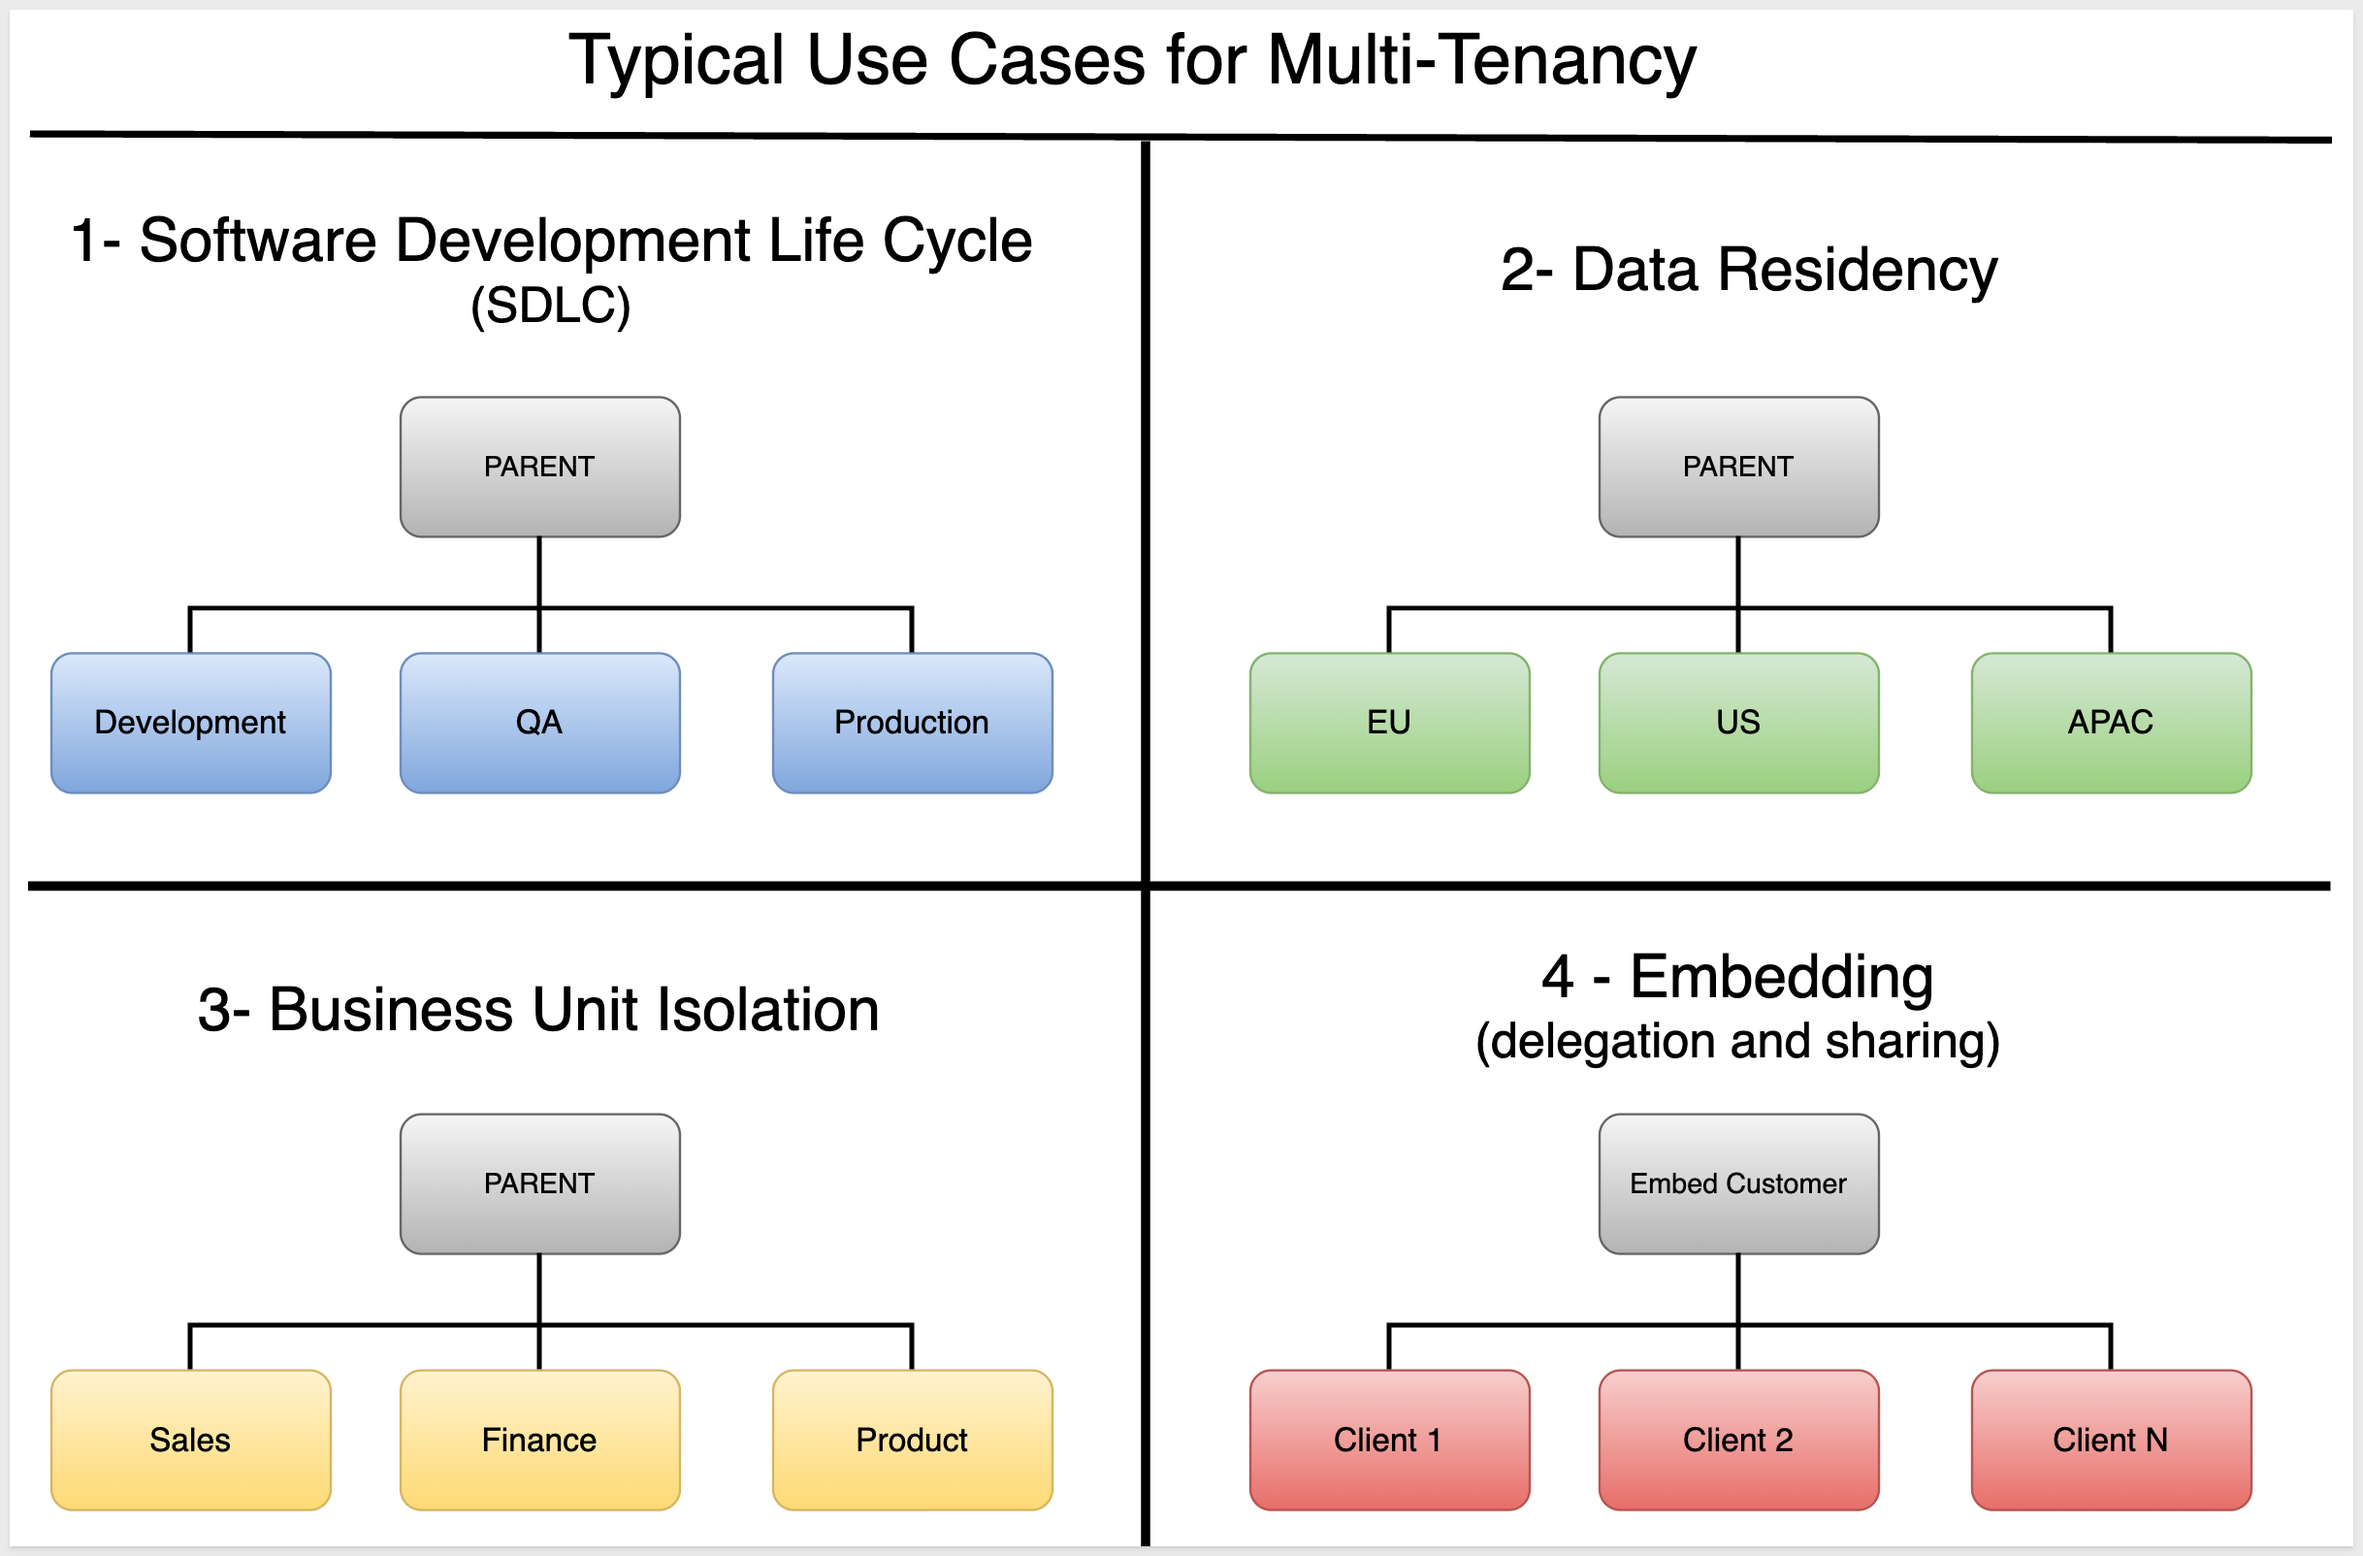
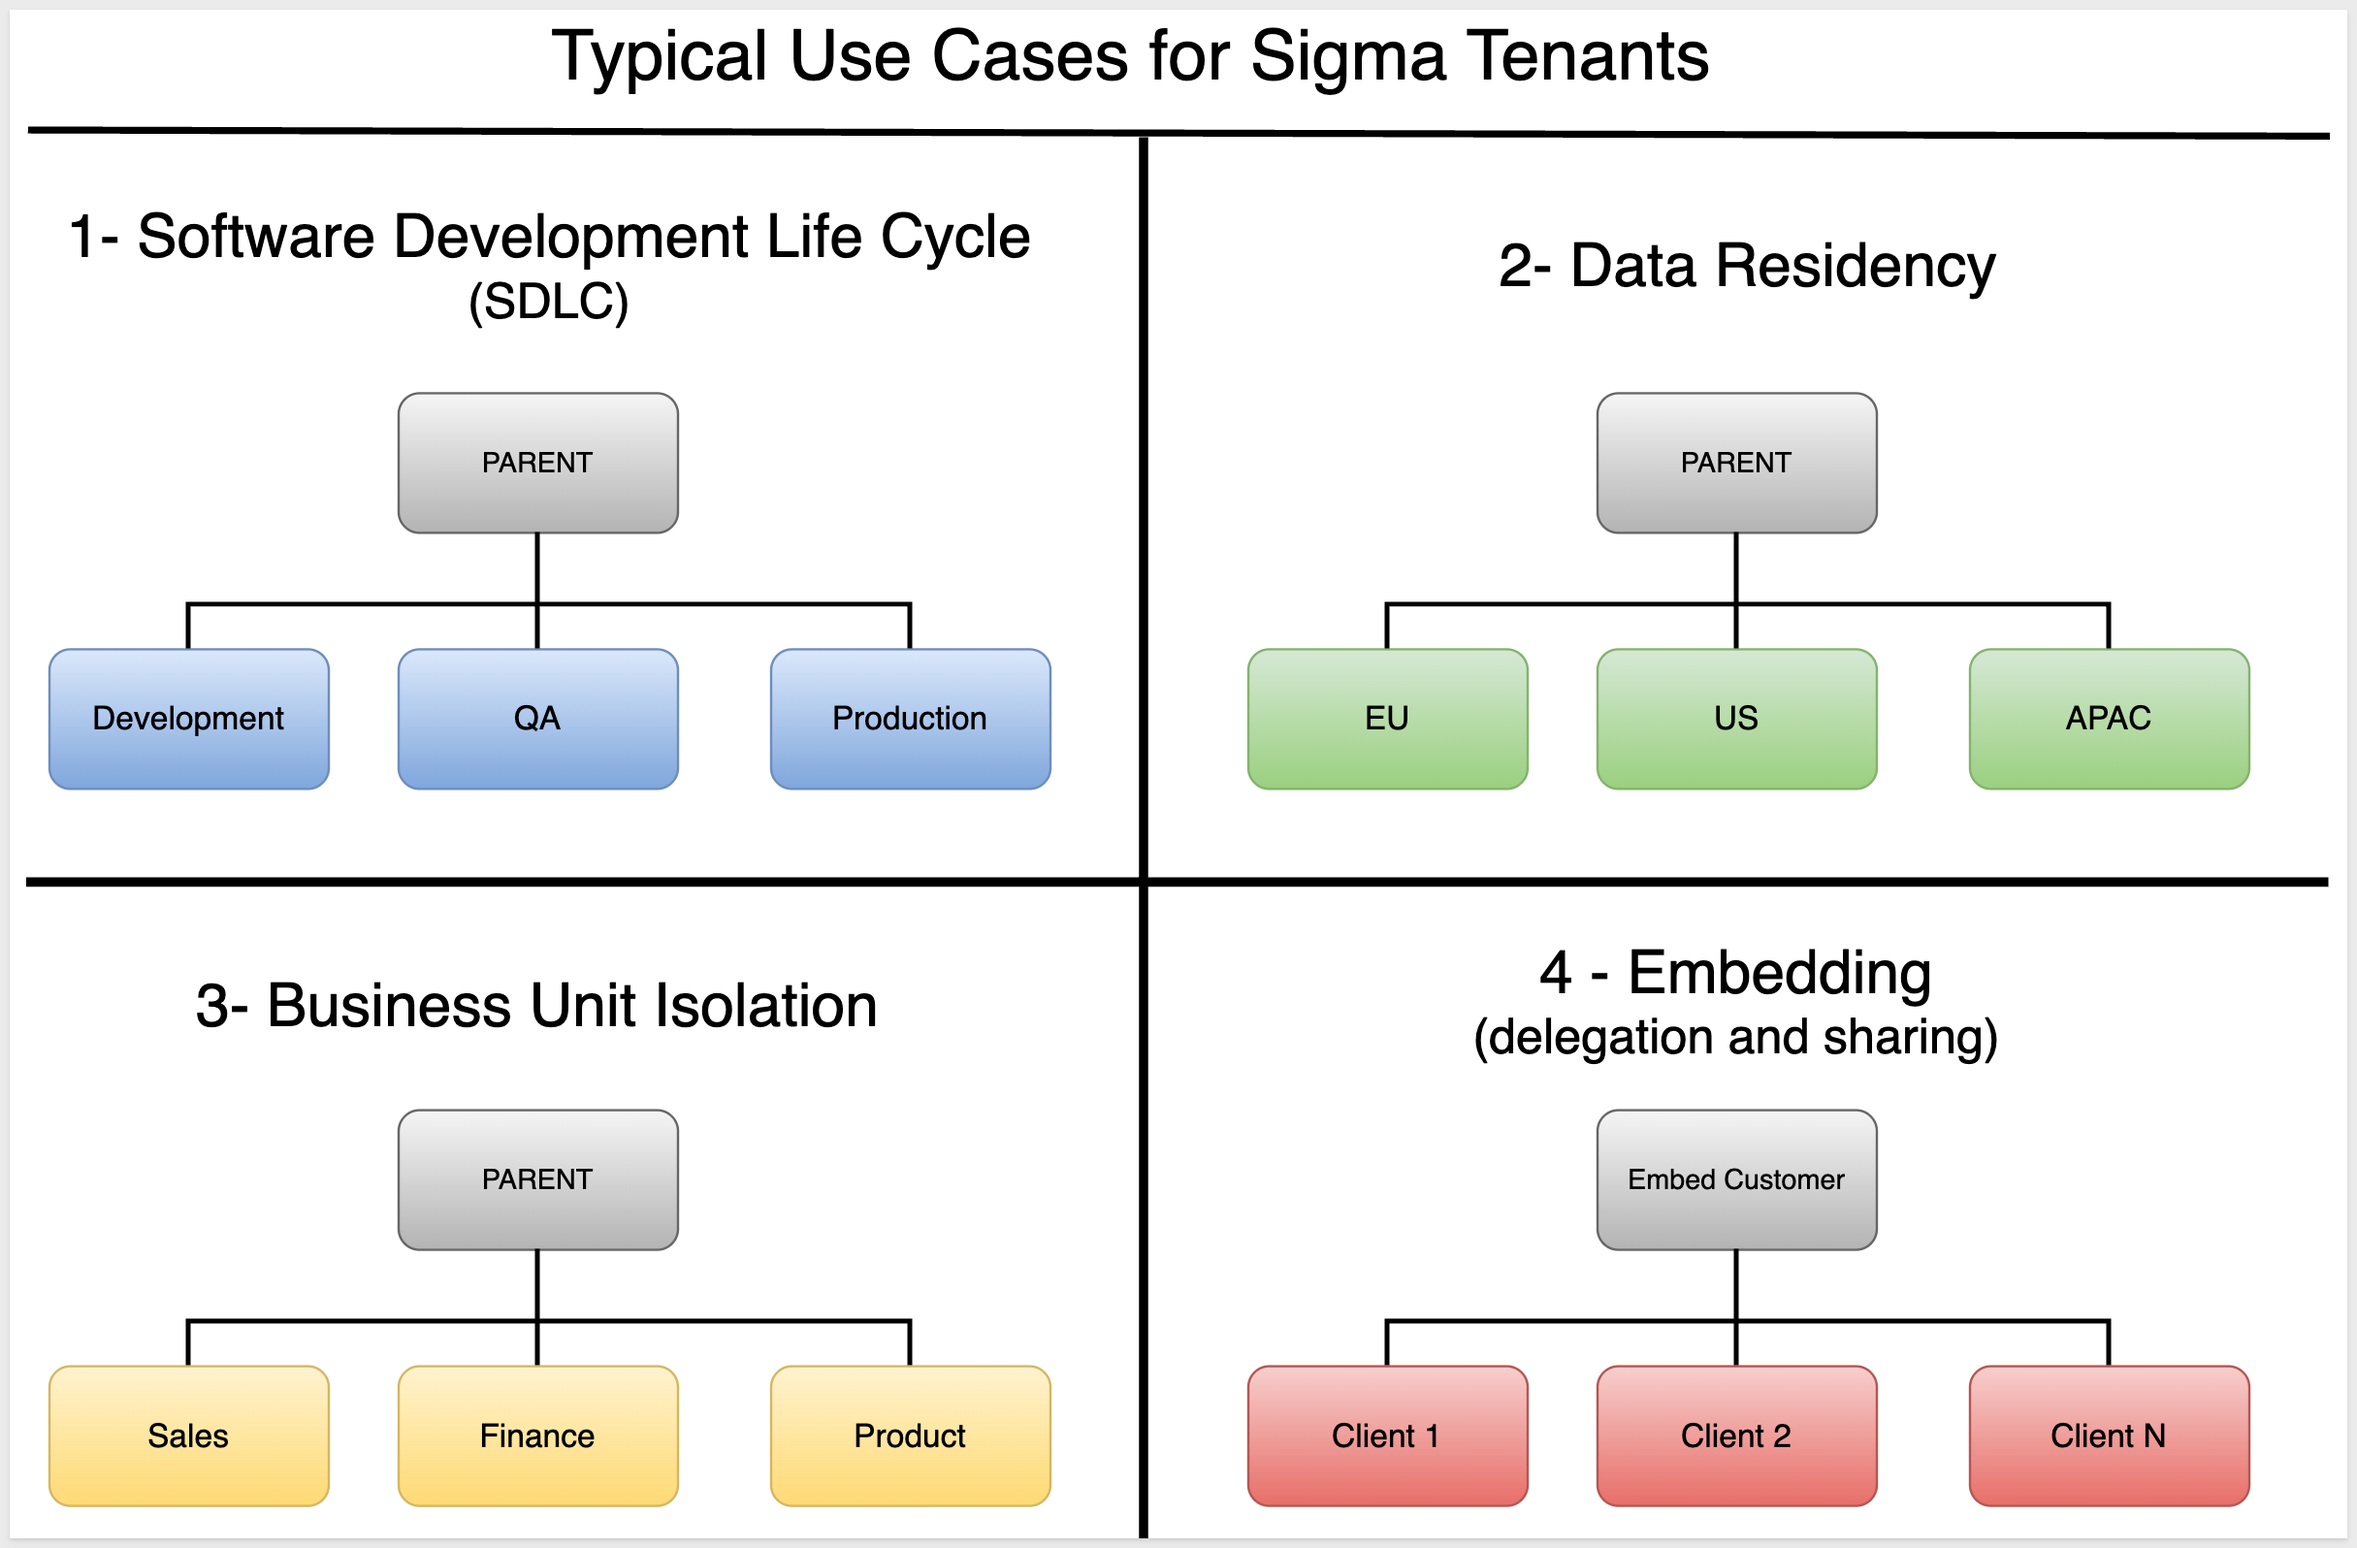
mt_rev2

diff --git a/site/sigmaguides/src/administration_multitenancy/administration_multitenancy.md b/site/sigmaguides/src/administration_multitenancy/administration_multitenancy.md
@@ -5,32 +5,32 @@ categories: Administration
 environments: web
 status: hidden
 feedback link: https://github.com/sigmacomputing/sigmaquickstarts/issues
-tags: 
-lastUpdated: 2026-01-14
+tags:
+lastUpdated: 2026-01-16
 
-# Multi-tenancy Administration: Managing Isolated Organizations
+# Sigma Tenants: Managing Isolated Organizations
 
 ## Overview
 Duration: 5
 
-Multi-tenancy in Sigma allows organizations to create and manage multiple isolated Sigma environments (called "tenants") within a single parent organization. This powerful feature solves two opposing challenges that organizations face when managing analytics at scale:
+Sigma Tenants allows organizations to create and manage multiple isolated Sigma environments (called "tenants") within a single parent organization. This powerful feature solves two opposing challenges that organizations face when managing analytics at scale:
 
 **Administration Challenge**: Share documents across multiple customers or business units without creating duplicate workbooks or manually sharing each document individually.
 
 **Collaboration Challenge**: Enable secure collaboration and sharing within each customer or business unit without exposing sensitive data to other groups.
 
-### Why Multi-tenancy?
+### Why Sigma Tenants?
 
-Multi-tenancy enables you to organize and isolate workbooks, data, users, and permissions—all within one platform. This approach is ideal when you need to:
+Sigma Tenants enables you to organize and isolate workbooks, data, users, and permissions—all within one platform. This approach is ideal when you need to:
 - **Segregate environments, deployments, or data access** (e.g., dev/test/prod, regional teams, external customers)
 - **Provide delegated administration** where each business unit or customer needs self-service admin capabilities without full Sigma root access
 - **Maintain fully isolated data and environments** to meet security, compliance, or contractual requirements
-- **Release different versions of workbooks** to different customers or business units
+- **Release different versions of Sigma assets** to different customers or business units
 - **Support multi-region deployments** for GDPR or other data residency requirements
 
 ### Four Core Use Cases
 
-Multi-tenancy enables four distinct organizational patterns:
+Sigma Tenants enables four distinct organizational patterns:
 
 <img src="assets/mt_usecases.png" width="800"/>
 
@@ -55,7 +55,7 @@ Provide each customer of your embedded analytics with their own isolated Sigma e
 - Delegated administration (local admins manage tenant-level permissions)
 - Its own configuration (email domains, Slack/Teams integrations, etc.)
 
-**Deployments**: Share workbooks and data models from the parent organization to selected tenants. When you share content with a tenant, it automatically appears in a workspace within that tenant, available to all members based on the permissions you specify.
+**Deployments**: Share Sigma assets from the parent organization to selected tenants. When you share content with a tenant, it automatically appears in a workspace within that tenant, available to all members based on the permissions you specify.
 
 **Connection Swap Policies**: Automatically route each tenant to their appropriate data connection. When a workbook is deployed, the connection swaps from the parent's template connection to each tenant's specific data source.
 
@@ -87,8 +87,7 @@ Product Managers and semi-technical users who will be aiding in the planning or 
 <strong>IMPORTANT:</strong><br> Sigma recommends using non-production resources when completing QuickStarts.
 </aside>
 
-<button>[Sigma Free Trial](https://www.sigmacomputing.com/free-trial/)</button><br>
-<button>[Snowflake Free Trial](https://trial.snowflake.com)</button>
+<button>[Sigma Free Trial](https://www.sigmacomputing.com/free-trial/)</button> <button>[Snowflake Free Trial](https://trial.snowflake.com)</button>
 
 <aside class="negative">
 <strong>IMPORTANT:</strong><br> Some features may carry a "Beta" tag. Beta features are subject to quick, iterative changes. As a result, the latest product version may differ from the contents of this document.
@@ -100,7 +99,7 @@ Product Managers and semi-technical users who will be aiding in the planning or 
 Duration: 5
 
 <aside class="positive">
-<strong>IMPORTANT:</strong><br> Multitenancy is a premium feature and is only available to customers in the Enterprise platform tier. If the feature is not available in your Sigma instance, please contact your Sigma account manager or open a support ticket.
+<strong>IMPORTANT:</strong><br> Sigma Tenants is a premium feature and is only available to customers in the Enterprise platform tier. If the feature is not available in your Sigma instance, please contact your Sigma account manager.
 </aside>
 
 Once enabled by Sigma, the `Tenants` option will appear in the left sidebar.
@@ -610,7 +609,7 @@ User attributes enable dynamic connection swapping when workbooks are deployed t
 The user attribute maps the `Connection ID` we captured earlier to each tenant, allowing workbooks to automatically use the correct data source based on which regional sales team is accessing the content.
 
 <aside class="negative">
-<strong>NOTE:</strong><br> User attributes support assignment to users, teams, or tenants. For multi-tenancy, tenant-level assignment is most efficient.
+<strong>NOTE:</strong><br> User attributes support assignment to users, teams, or tenants. For multitenancy, tenant-level assignment is most efficient.
 <br><br>
 <strong>Embedding Use Case:</strong> When embedding Sigma content in external applications, user attributes can be passed dynamically via JWT (JSON Web Token) from your host application. This enables the same connection swap mechanism to work for embedded scenarios - each customer sees only their data based on attributes passed at runtime. For example, a host application can pass a <code>customer_connection</code> attribute that automatically routes each embedded user to their organization's data connection.
 <br><br>
@@ -693,7 +692,7 @@ Duration: 5
 
 A connection's source swap policy dynamically replaces a table source based on predefined rules when users evaluate a workbook.
 
-This is particularly useful in multi-tenant configurations. When you deploy a workbook from the parent organization to tenant organizations, the swap policy automatically routes each tenant to their appropriate data connection using the user attributes we configured earlier.
+This is particularly useful in multitenant configurations. When you deploy a workbook from the parent organization to tenant organizations, the swap policy automatically routes each tenant to their appropriate data connection using the user attributes we configured earlier.
 
 But what about the users who are building content at the parent level on behalf of tenants?
 
@@ -848,7 +847,7 @@ When deployed, the swap policy will dynamically route each tenant to their respe
 ## Deployment
 Duration: 5
 
-Deployment policies enable **automatic distribution** of workbooks from the parent organization to selected tenant organizations. Once you add a workbook to a deployment policy and share it with tenants, Sigma automatically creates copies in each tenant's workspace—no manual deployment action required.
+Deployment policies enable **automatic distribution** of content from the parent organization to selected tenant organizations. Once you add content to a deployment policy and share it with tenants, Sigma automatically creates copies in each tenant's workspace—no manual deployment action required.
 
 When deployed, the connection swap policy **automatically** routes each tenant to their appropriate data connection.
 
@@ -874,7 +873,7 @@ Select the `regional_connection` policy we created earlier:
 Click `Create` to create the deployment policy.
 
 ### Add Workbook and Share with Tenants
-Once the deployment policy is created, you'll add workbooks to the policy and share them with tenants:
+Once the deployment policy is created, you'll add content to the policy and share them with tenants:
 
 Click `Add document`:
 
@@ -936,7 +935,7 @@ It will show the expected Sales_West data:
 <img src="assets/mt_32.png" width="800"/>
 
 <aside class="positive">
-<strong>SUCCESS!</strong><br> If both tenants see only their respective regional data, your multi-tenancy configuration is working correctly. The connection swap policy is automatically routing each tenant to their appropriate database.
+<strong>SUCCESS!</strong><br> If both tenants see only their respective regional data, your Sigma Tenants configuration is working correctly. The connection swap policy is automatically routing each tenant to their appropriate database.
 </aside>
 
 ### What Just Happened?
@@ -951,10 +950,10 @@ This demonstrates **warehouse-level data security** - each tenant is restricted 
 ![Footer](assets/sigma_footer.png)
 <!-- END OF SECTION-->
 
-## Applying to Other Use Cases
+## Applying Sigma Tenants to Other Use Cases
 Duration: 5
 
-The features you've learned in this QuickStart—tenant creation, user attributes, connection swap policies, and deployments—apply to all four multi-tenancy use cases. Here's how to adapt what you've built:
+The features you've learned in this QuickStart—tenant creation, user attributes, connection swap policies, and deployments—apply to all four Sigma Tenants use cases. Here's how to adapt what you've built:
 
 ### SDLC (Software Development Lifecycle)
 
@@ -1049,11 +1048,11 @@ The same features enable different organizational patterns—what changes is the
 ## What we've covered
 Duration: 5
 
-In this QuickStart, we demonstrated **Business Unit Isolation** using Sigma's multi-tenancy features with a regional sales team scenario.
+In this QuickStart, we demonstrated **Business Unit Isolation** using Sigma Tenants with a regional sales team scenario.
 
 **Key Concepts Covered:**
 
-- **Multi-tenancy Architecture**: Creating and managing isolated tenant organizations (Sales-East and Sales-West) within a single Sigma instance
+- **Sigma Tenants Architecture**: Creating and managing isolated tenant organizations (Sales-East and Sales-West) within a single Sigma instance
 - **Tenant Impersonation**: Accessing tenant environments as an administrator without separate credentials
 - **Warehouse-Level Security**: Using separate Snowflake databases to enforce data isolation at the database level, ensuring each region only queries their permitted data
 - **Connection Swap Policies**: Automatically routing tenants to their specific data connections using user attributes
@@ -1081,7 +1080,7 @@ This architecture enables organizations to:
 
 **Next Steps:**
 
-- Explore other multi-tenancy use cases (SDLC, Data Residency, Embed)
+- Explore other Sigma Tenants use cases (SDLC, Data Residency, Embed)
 - Configure auto-sync for deployments to keep tenants updated automatically
 - Add more complex connection swap policies with conditional logic
 - Integrate with your organization's SSO for tenant user management 
